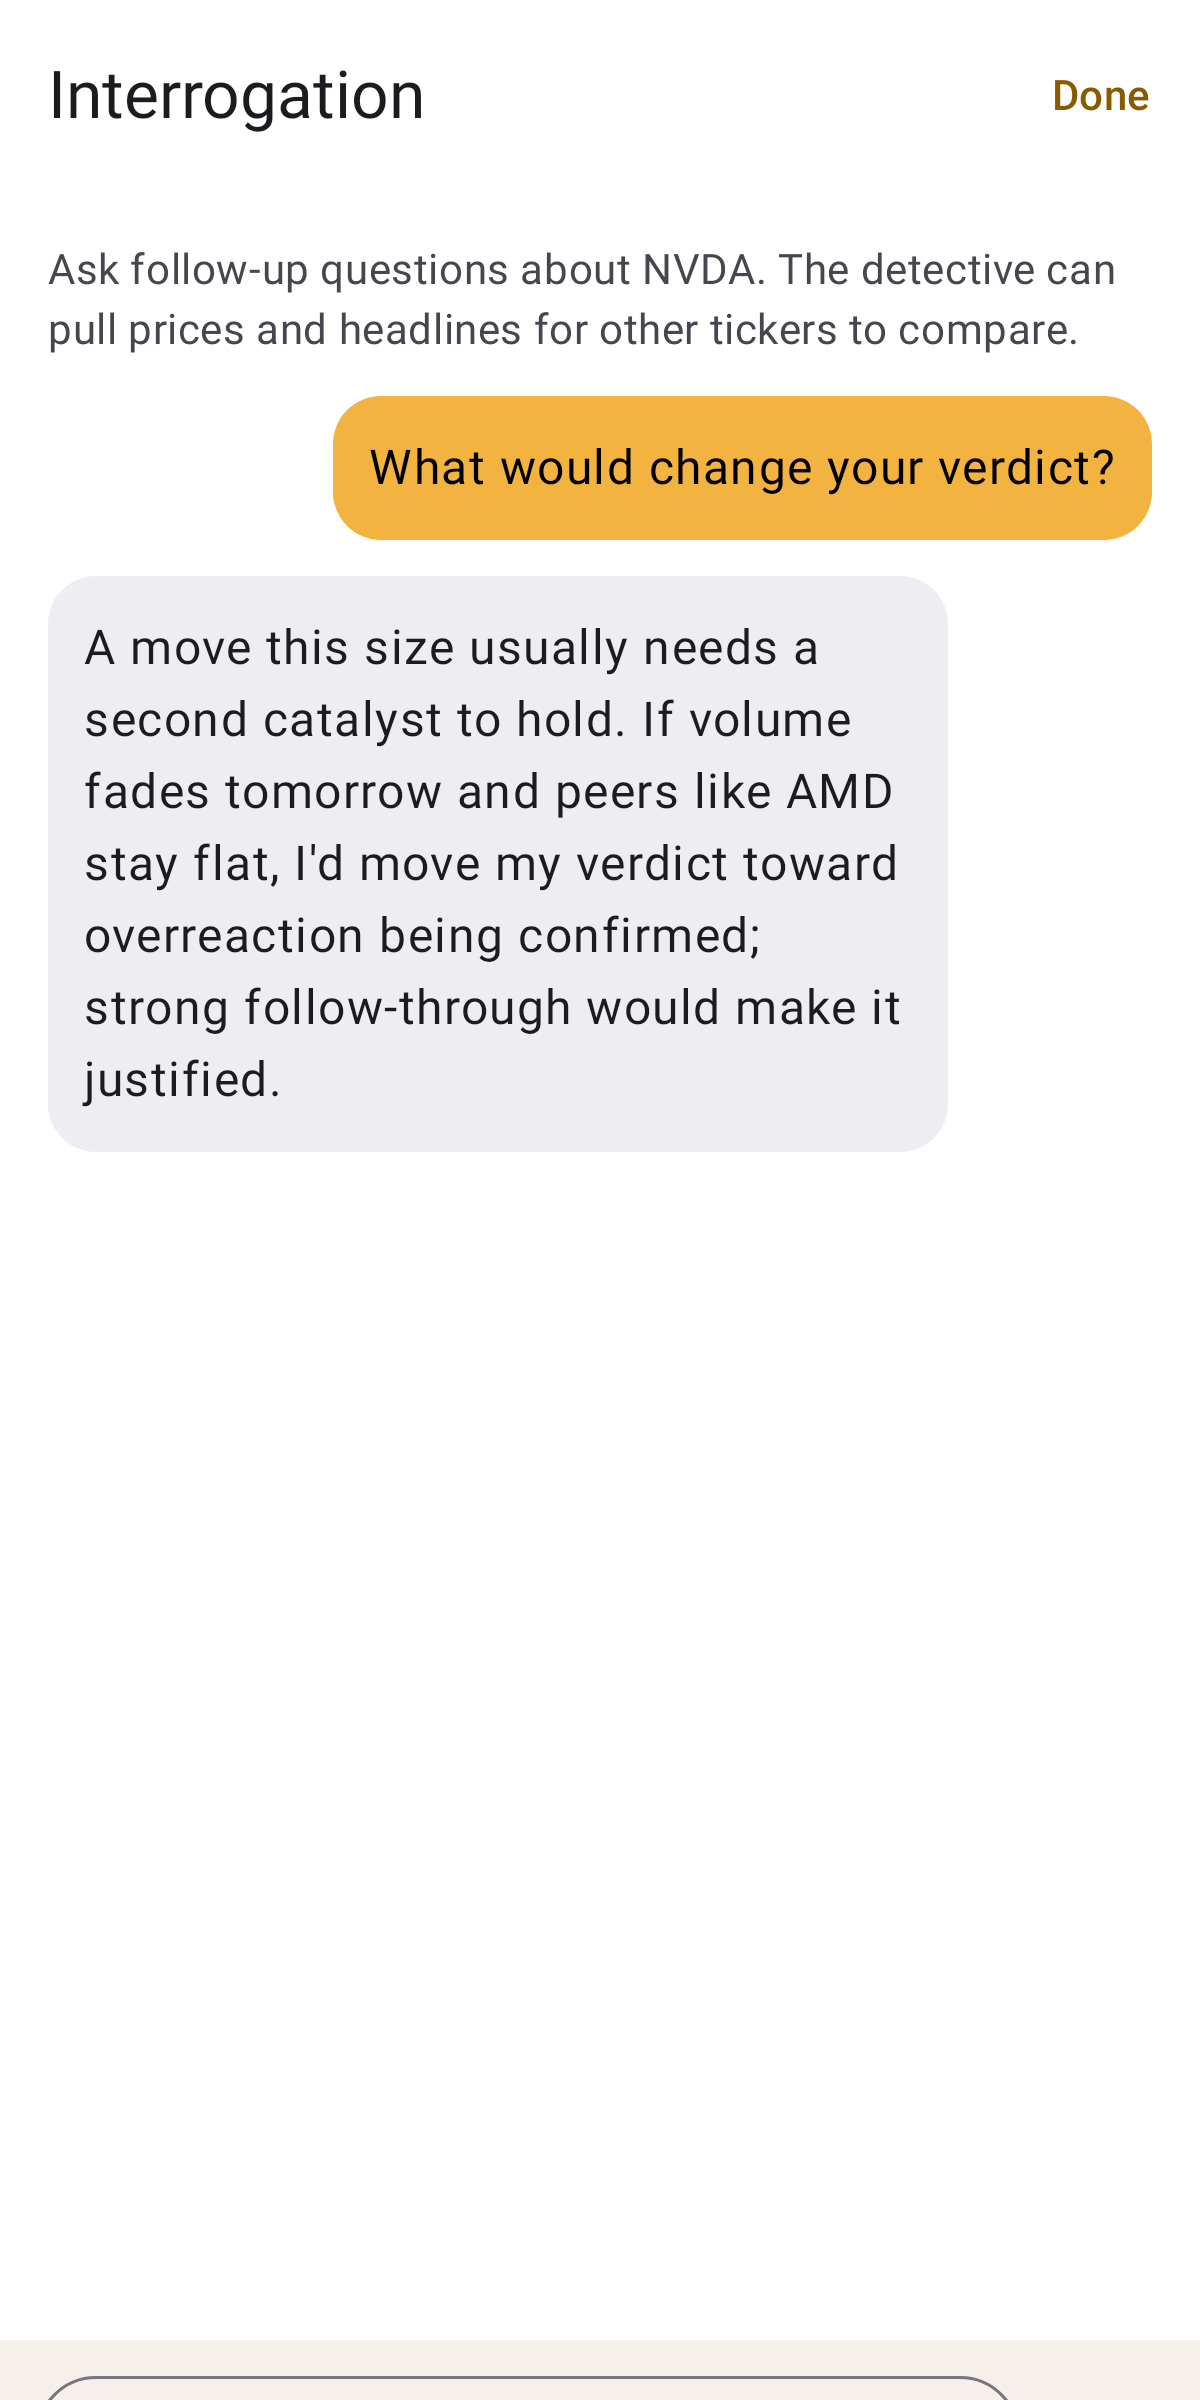
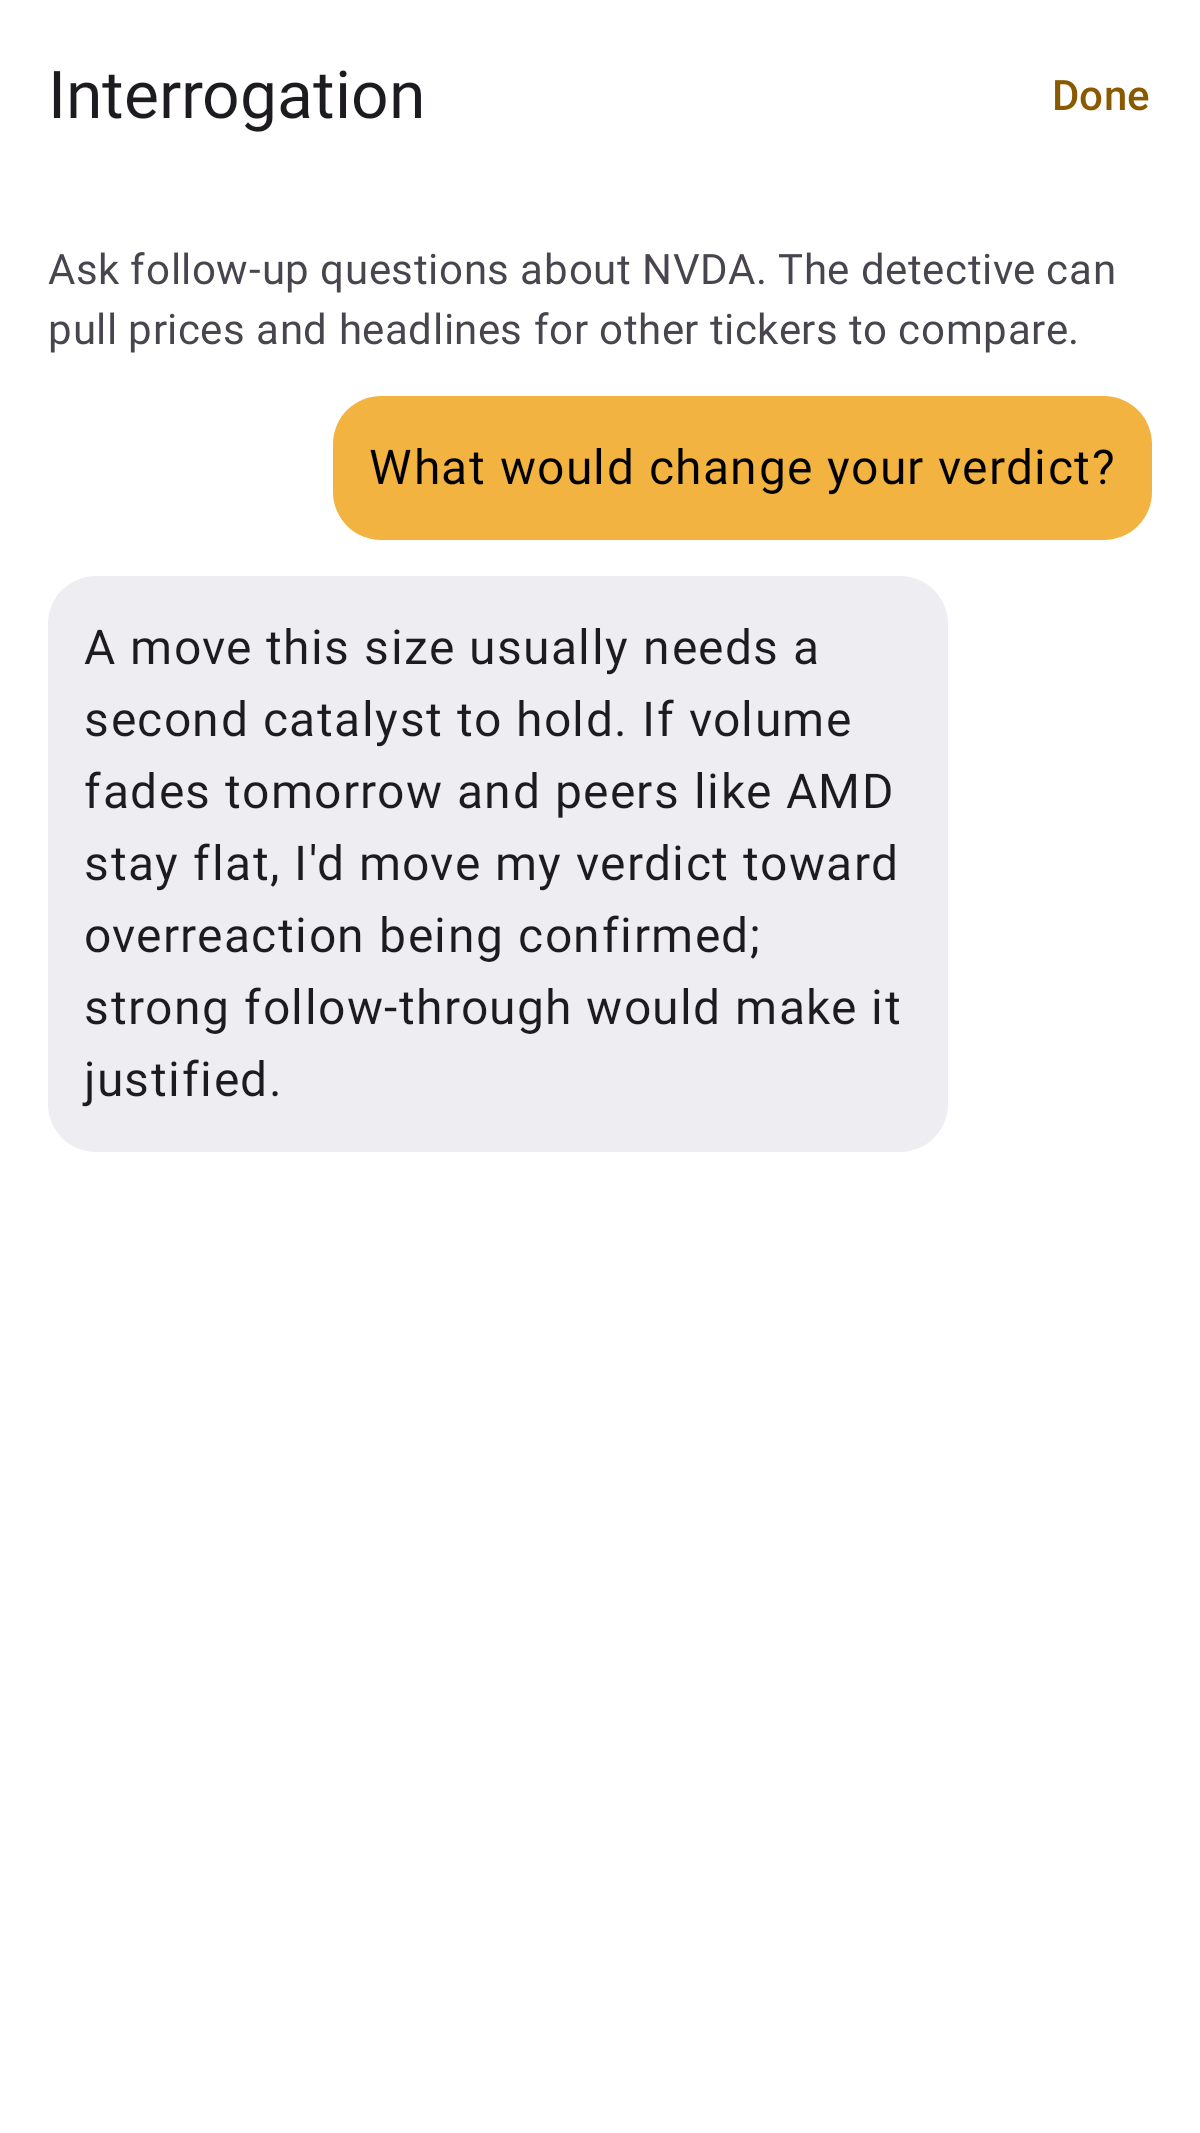
Crop Play screenshots to 9:16 (1200x2133)
Play Console only accepts 16:9 or 9:16 phone screenshots.

Claude-Session: https://claude.ai/code/session_0177fxUqdqqLnt6xsqNH3Ryx

diff --git a/play/README.md b/play/README.md
@@ -77,9 +77,9 @@ CI: the GitHub workflow now also builds `app-release.aab` (versionCode = run num
 |---|---|
 | App icon 512×512 | `icon-512.png` |
 | Feature graphic 1024×500 | `feature-graphic-1024x500.png` |
-| Phone screenshots (1200×2400, 7) | `screenshots/01…07-*.png` |
+| Phone screenshots (1200×2133, 9:16, 7) | `screenshots/01…07-*.png` |
 
-The originals in `docs/screenshots` are 1200×2580, which is over Play's 2:1 aspect limit, so these copies are cropped to 1200×2400.
+The originals in `docs/screenshots` are 1200×2580. Play requires phone screenshots to be exactly 16:9 or 9:16, so these copies are cropped to 1200×2133.
 
 **Category:** Finance · **Tags:** stocks, portfolio, market news
 **Contact email:** stasgold@gmail.com
